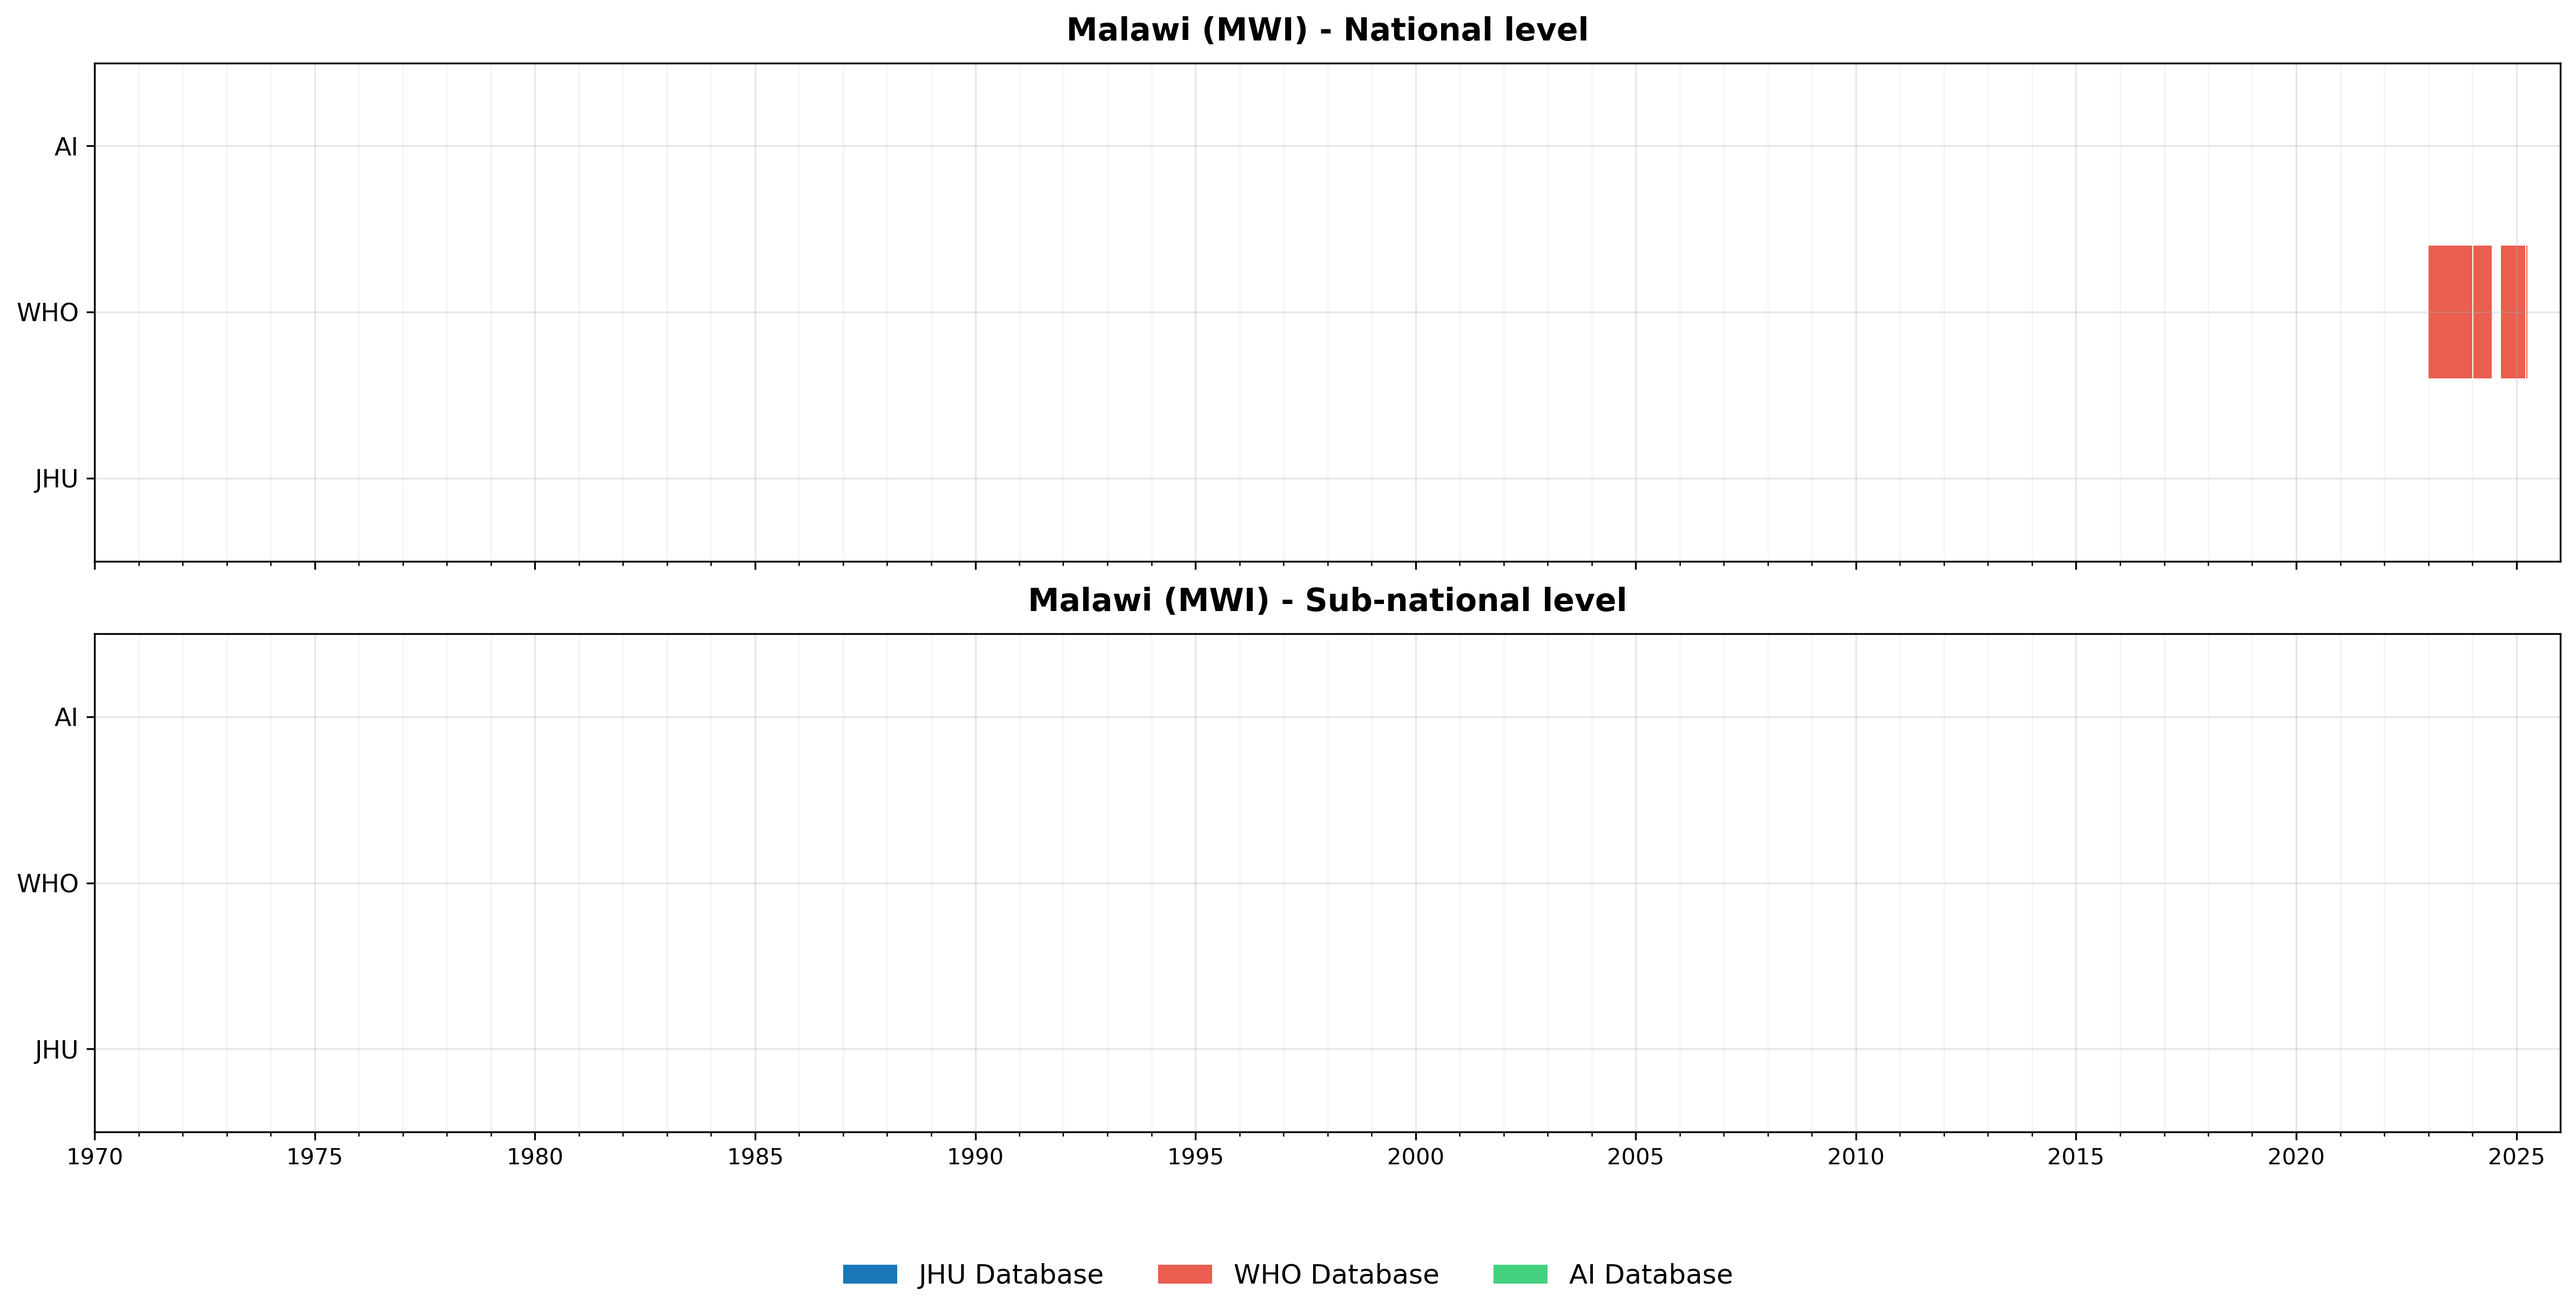
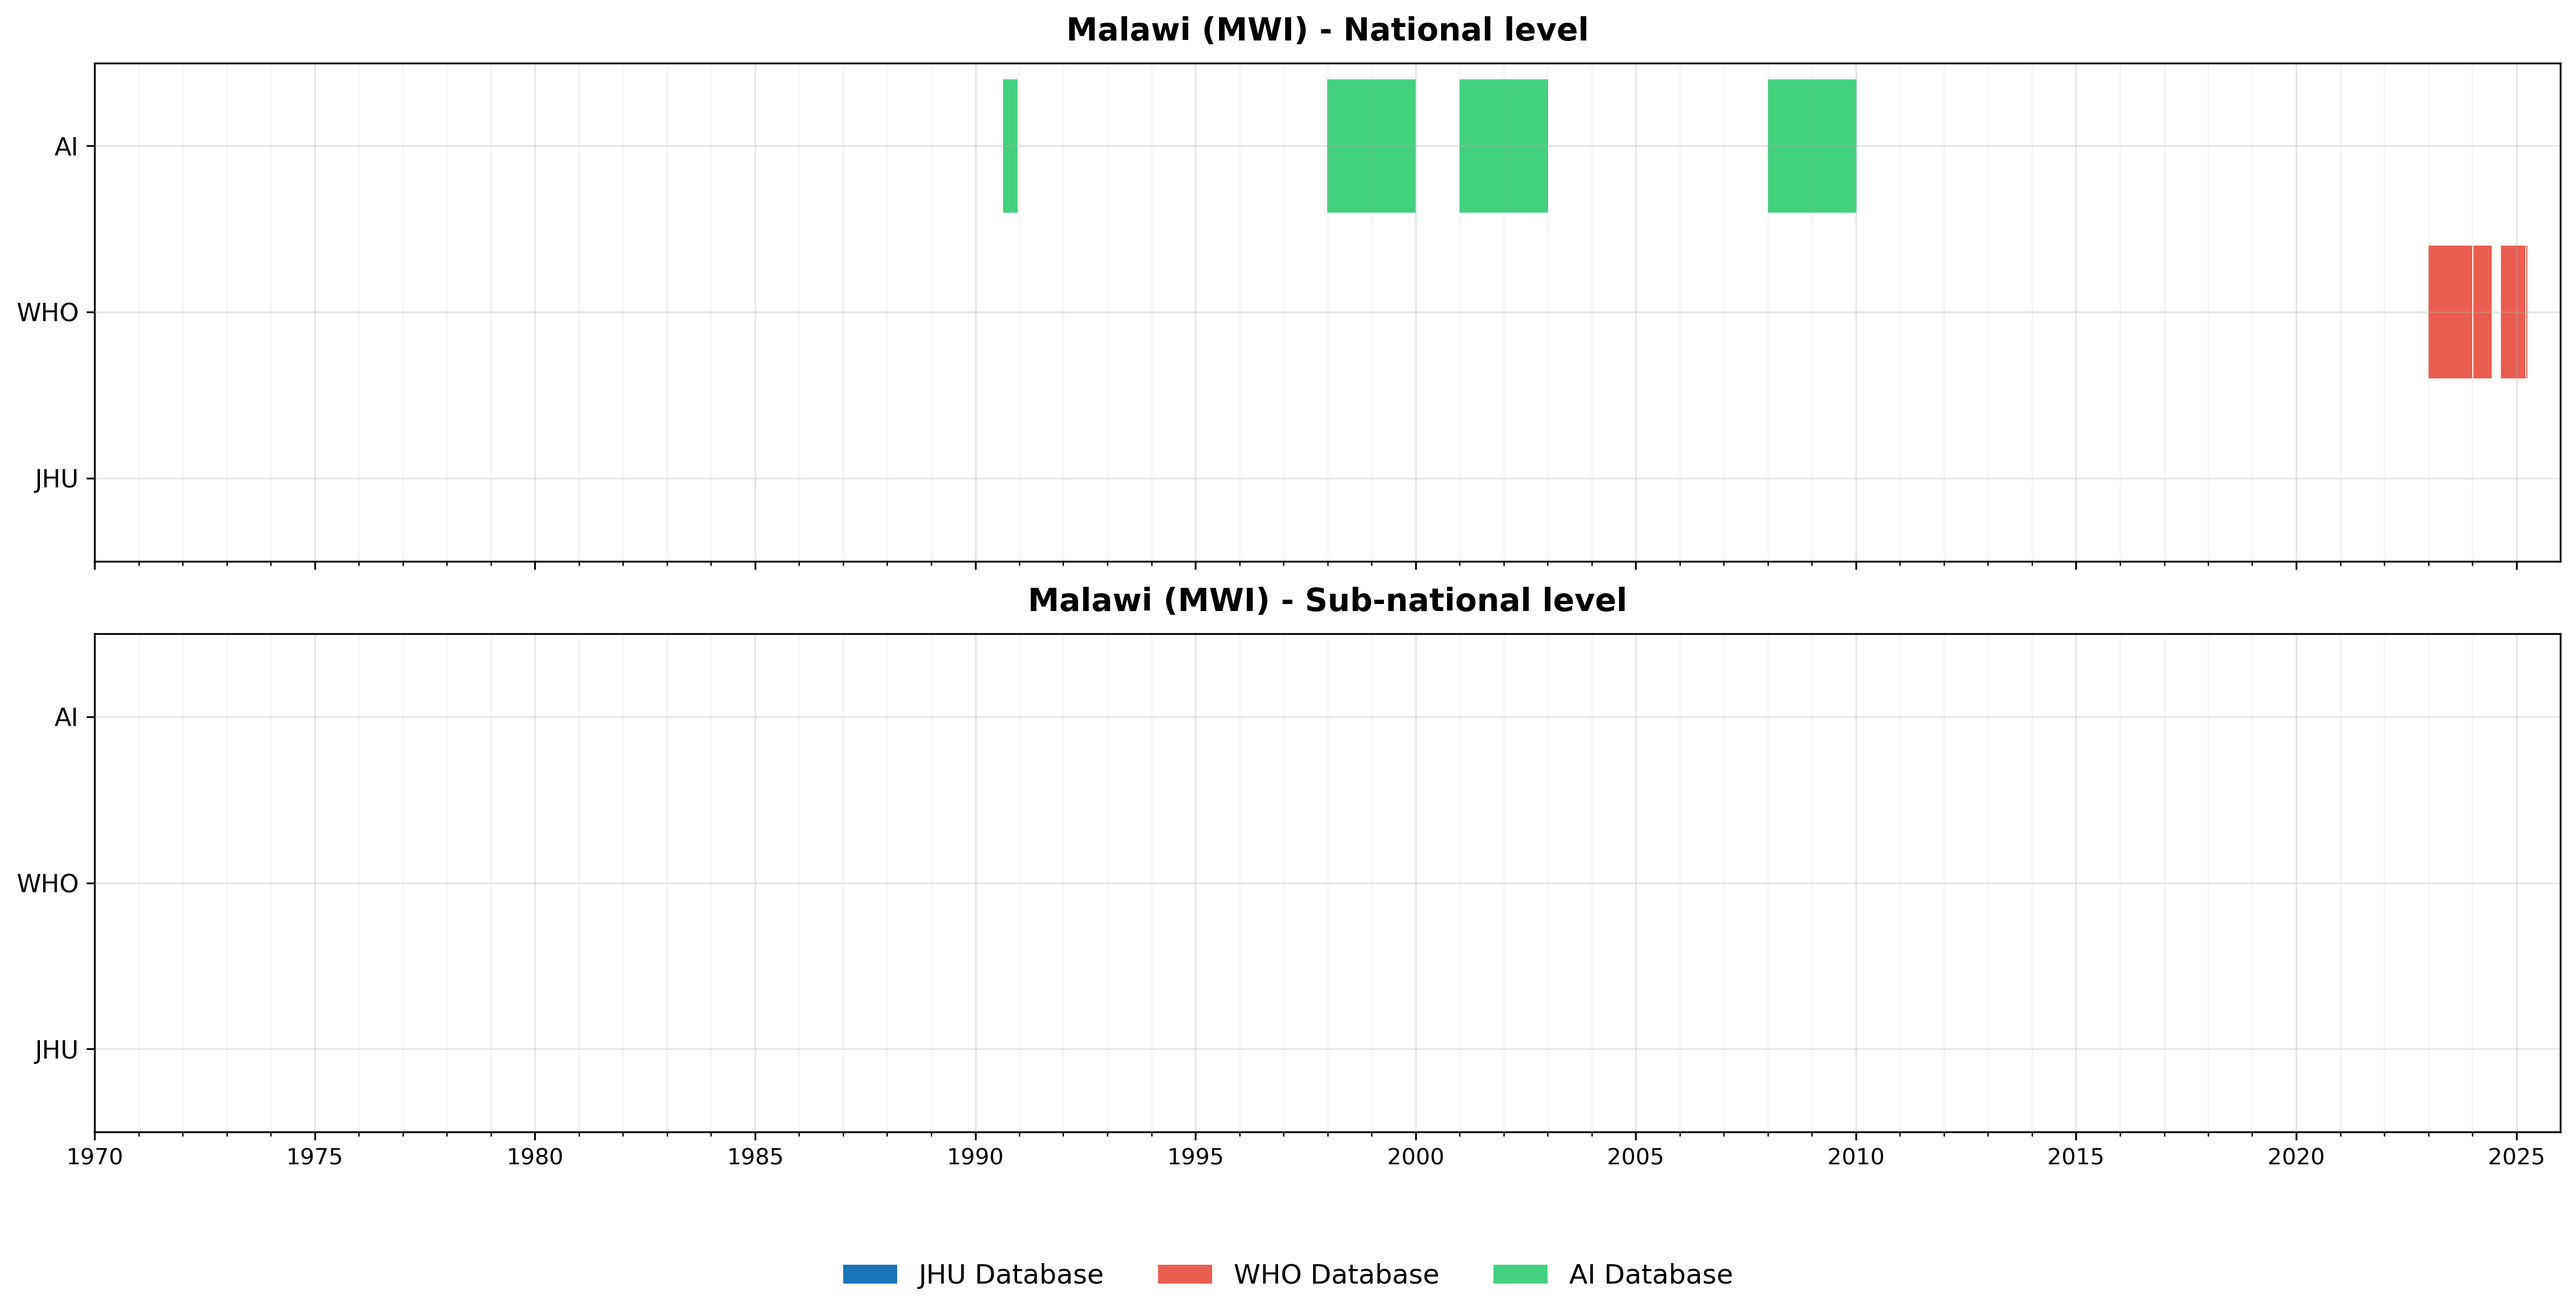
Auto-update dashboard data - 2025-08-06 18:14:26 - Generated with Claude Code

Changed region(s): [[0.4999, 0.0623, 0.6249, 0.187], [0.6874, 0.0623, 0.7186, 0.187], [0.3749, 0.0623, 0.4062, 0.1559]]

diff --git a/dashboard/dashboard.html b/dashboard/dashboard.html
@@ -2631,7 +2631,7 @@ Liberia,LBR,NOT_STARTED,,0,0,,,0,0,
 Mali,MLI,NOT_STARTED,,0,0,,,0,0,
 Mozambique,MOZ,NOT_STARTED,,0,0,,,0,0,
 Mauritania,MRT,NOT_STARTED,,0,0,,,0,0,
-Malawi,MWI,PENDING,2025-08-06 18:11:14,5,0,,,0,0,
+Malawi,MWI,PENDING,2025-08-06 18:12:29,5,5,1990-2010,HIGH,0,0,
 Namibia,NAM,NOT_STARTED,,0,0,,,0,0,
 Niger,NER,NOT_STARTED,,0,0,,,0,0,
 Nigeria,NGA,NOT_STARTED,,0,0,,,0,0,
